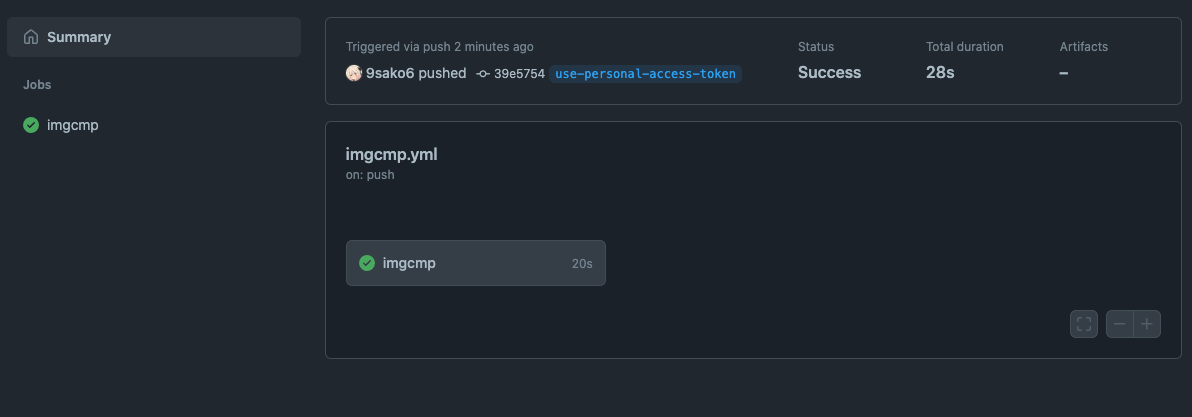
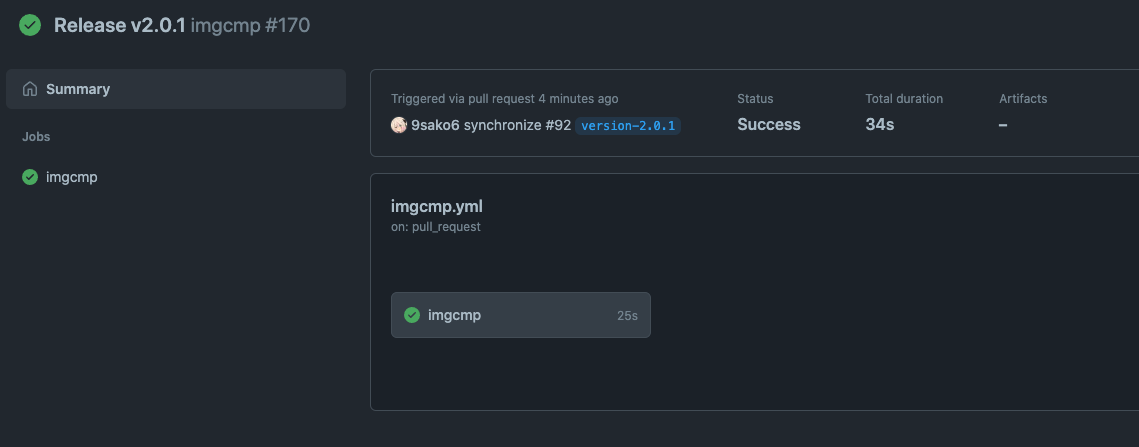
Release v2.0.1

diff --git a/src/image/paths_test.ts b/src/image/paths_test.ts
@@ -6,7 +6,8 @@ Deno.test("imagePaths() lists image paths", async () => {
   const expected = [
     "figs/actions_time.png",
     "figs/logo.png",
-    "figs/needed_repo_permissions.png",
+    "figs/required_repo_permissions.png",
+    "figs/required_user_permissions.png",
     "figs/sample_pull_request.png",
     "fixtures/images/code.gif",
     "fixtures/images/code.jpg",

diff --git a/README.md b/README.md
@@ -1,4 +1,4 @@
-<h1 align="center">imgcmp</h1>
+<h1 align="center">imgcmp v2.0.1</h1>
 
 <p align="center"><img src="./figs/logo.png" width="50%"></p>
 
@@ -21,23 +21,6 @@ A pull request example:
 
 ## Usage
 
-### 1st Step
-
-You need to create a
-[Personal access token](https://docs.github.com/en/authentication/keeping-your-account-and-data-secure/creating-a-personal-access-token)
-with those permission to open a pull request automatically.
-
-<img alt="needed repo permissions" src="./figs/needed_repo_permissions.png">
-
-Then please add the personal access token to your
-[repository secrets](https://docs.github.com/en/actions/security-guides/encrypted-secrets#creating-encrypted-secrets-for-a-repository)
-with an easily recognizable name. For example, `IMGCMP_ACCESS_TOKEN`.
-
-### 2nd step
-
-To run this GitHub Actions, please add the following lines to your
-`.github/workflows/imgcmp.yml`:
-
 ```yml
 name: imgcmp
 on: push
@@ -46,9 +29,9 @@ jobs:
     if: ${{ startsWith(github.head_ref, 'actions/imgcmp/') != true }}
     runs-on: ubuntu-latest
     steps:
-      - uses: 9sako6/imgcmp@v2.0.0
+      - uses: 9sako6/imgcmp@v2.0.1
         with:
-          token: ${{ secrets.IMGCMP_ACCESS_TOKEN }}
+          token: ${{ secrets.GITHUB_TOKEN }}
 ```
 
 If you want to run this action only once a week, please add the following lines.
@@ -63,9 +46,9 @@ jobs:
     if: ${{ startsWith(github.head_ref, 'actions/imgcmp/') != true }}
     runs-on: ubuntu-latest
     steps:
-      - uses: 9sako6/imgcmp@v2.0.0
+      - uses: 9sako6/imgcmp@v2.0.1
         with:
-          token: ${{ secrets.IMGCMP_ACCESS_TOKEN }}
+          token: ${{ secrets.GITHUB_TOKEN }}
 ```
 
 Then, you will receive a pull request with optimized images every Monday at
@@ -73,7 +56,14 @@ Then, you will receive a pull request with optimized images every Monday at
 
 ## Configuration
 
-### `paths-ignore-regexp`
+### Action inputs
+
+| Name|Description|Required|
+| - | - | - |
+| `token`| `GITHUB_TOKEN` or a [Personal access token (PAT)](https://docs.github.com/en/authentication/keeping-your-account-and-data-secure/creating-a-personal-access-token). In a private repository, you have to use PAT with enough permissions. See [How to use a Personal Access Token](./doc/pat.md). :warning: For a Personal access token (PAT) users :warning: `if: ${{ startsWith(github.head_ref, 'actions/imgcmp/') != true }}` statement is necessary if you use a PAT. Without this statement, the pull request opened by imgcmp executes new actions and falls into an infinite loop. |true |
+| `paths-ignore-regexp`| Regular expression for images' paths you don't want to compress. | false    |
+
+#### `paths-ignore-regexp`
 
 imgcmp offers an ignore option. `paths-ignore-regexp` is regular expression for
 images' paths you don't want to compress.
@@ -88,9 +78,9 @@ jobs:
     if: ${{ startsWith(github.head_ref, 'actions/imgcmp/') != true }}
     runs-on: ubuntu-latest
     steps:
-      - uses: 9sako6/imgcmp@v2.0.0
+      - uses: 9sako6/imgcmp@v2.0.1
         with:
-          token: ${{ secrets.IMGCMP_ACCESS_TOKEN }}
+          token: ${{ secrets.GITHUB_TOKEN }}
           paths-ignore-regexp: "(ignore/.*)|(public/.*)"
 ```
 
@@ -128,7 +118,7 @@ SVGO's default configuration will be used.
 
 ## Benchmark
 
-It took 28 sec to create the following PR.
+It took 34 sec to create the following PR.
 
 <p align="center"><img src="./figs/actions_time.png"></p>
 
@@ -136,13 +126,19 @@ It took 28 sec to create the following PR.
 
 ## Change Log
 
+### `v2.0.1` (April 10, 2022)
+
+Bug fixes.
+
+- Fix the problem that actions fail when a trigger event is `pull_request`
+  (https://github.com/9sako6/imgcmp/pull/99)
+- Fix the problem that actions fail when `paths-ignore-regexp` is empty
+  (https://github.com/9sako6/imgcmp/pull/51)
+
 ### `v2.0.0` (February 6, 2022)
 
 There are breaking changes from version `1.0.1`.
 
-- Use a Personal access token instead of `GITHUB_TOKEN`
-  (https://github.com/9sako6/imgcmp/pull/26)
-  - `GITHUB_TOKEN` didn't have enough authority in a private repository.
 - Add `token` input (https://github.com/9sako6/imgcmp/pull/26)
   - `GITHUB_TOKEN` option in `env` was deleted.
 - Add `paths-ignore-regexp` input (https://github.com/9sako6/imgcmp/pull/26)

diff --git a/doc/pat.md b/doc/pat.md
@@ -1,0 +1,38 @@
+# How to use a Personal Access Token
+
+## Settings
+
+### 1st Step
+
+You need to create a
+[Personal access token](https://docs.github.com/en/authentication/keeping-your-account-and-data-secure/creating-a-personal-access-token)
+with those permission to open a pull request automatically.
+
+<img alt="required repo permissions" src="../figs/required_repo_permissions.png">
+<img alt="required user permissions" src="../figs/required_user_permissions.png">
+
+Then please add the personal access token to your
+[repository secrets](https://docs.github.com/en/actions/security-guides/encrypted-secrets#creating-encrypted-secrets-for-a-repository)
+with an easily recognizable name. For example, `IMGCMP_ACCESS_TOKEN`.
+
+### 2nd step
+
+To run this GitHub Actions, please add the following lines to your
+`.github/workflows/imgcmp.yml`:
+
+```yml
+name: imgcmp
+on: push
+jobs:
+  imgcmp:
+    if: ${{ startsWith(github.head_ref, 'actions/imgcmp/') != true }}
+    runs-on: ubuntu-latest
+    steps:
+      - uses: 9sako6/imgcmp@v2.0.1
+        with:
+          token: ${{ secrets.IMGCMP_ACCESS_TOKEN }}
+```
+
+:warning: For a PAT users :warning:
+
+`if: ${{ startsWith(github.head_ref, 'actions/imgcmp/') != true }}` statement is necessary if you use a PAT. Without this statement, the pull request opened by imgcmp executes new actions and falls into an infinite loop.
